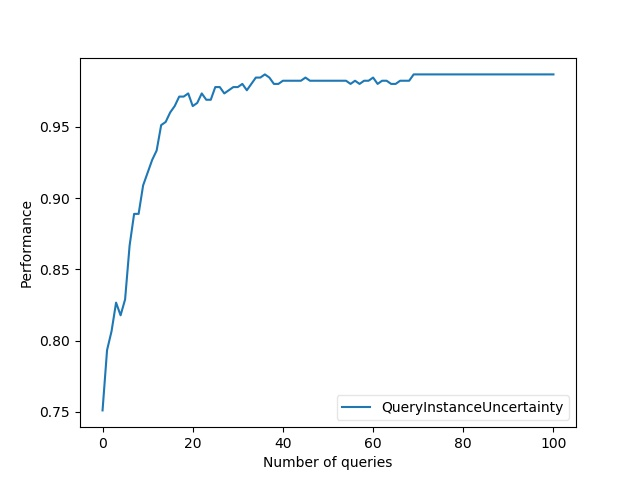
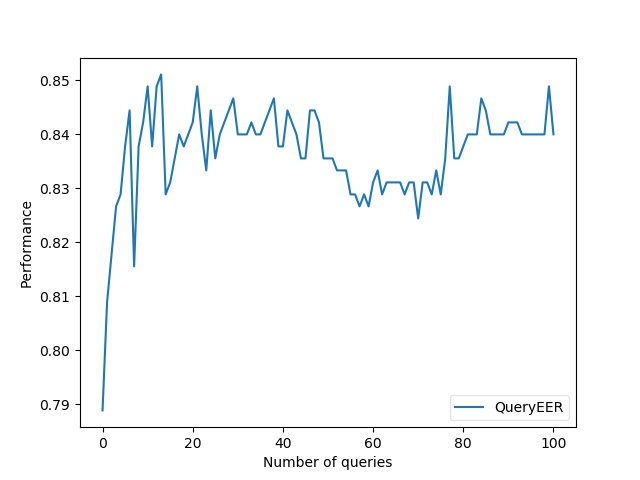
''

diff --git a/Acepy/acepy/experiment/al_experiment.py b/Acepy/acepy/experiment/al_experiment.py
@@ -13,6 +13,7 @@ import os
 import pickle
 import inspect
 import copy
+
 from sklearn.linear_model import LogisticRegression
 from sklearn.utils import check_array, check_X_y
 
@@ -132,39 +133,43 @@ class AlExperiment:
         # user-defined strategy
         if callable(strategy):
             self.__custom_strategy_flag = True
-            # self._query_function_name = str(strategy)
+            strategyname = kwargs.pop('strategyname', None)
+            if strategyname is not None:
+                self._query_function_name = strategyname
+            else:
+                self._query_function_name = 'user-defined strategy'
             self.__custom_func_arg = kwargs
             self._query_function = strategy(self._X, self._y, kwargs)
-            return
-        
-        # a pre-defined strategy in Acepy
-        if strategy not in ['QueryInstanceQBC', 'QueryInstanceUncertainty', 'QueryRandom', 
-                        'QureyExpectedErrorReduction', 'QueryInstanceGraphDensity', 'QueryInstanceQUIRE']:
-            raise NotImplementedError('Strategy %s is not implemented. Specify a valid '
-                                      'method name or privide a callable object.', str(strategy))
+            # self._query_function = strategy(self._X, self._y)
         else:
-            self._query_function_name = strategy
-            if strategy == 'QueryInstanceQBC':
-                method = kwargs.pop('method', None)
-                disagreement = kwargs.pop('disagreement', None)
-                self._query_function = acepy.query_strategy.query_strategy.QueryInstanceQBC(self._X, self._y, method, disagreement, scenario)
-            elif strategy == 'QueryInstanceUncertainty':
-                measure = kwargs.pop('measure', None)
-                self._query_function = acepy.query_strategy.query_strategy.QueryInstanceUncertainty(self._X, self._y, measure)
-            elif strategy == 'QueryRandom':
-                self._query_function = acepy.query_strategy.query_strategy.QueryRandom(self._X, self._y, kwargs)
-            elif strategy == 'QureyExpectedErrorReduction':
-                self._query_function = acepy.query_strategy.query_strategy.QureyExpectedErrorReduction(self._X, self._y)
-            elif strategy == 'QueryInstanceGraphDensity':
-                if self._train_idx is None:
-                    raise ValueError('train_idx is None.Please split data firstly.You can call set_data_split or split_AL to split data.')
-                metric = kwargs.pop('metric', None)
-                self._query_function = acepy.query_strategy.sota_strategy.QueryInstanceGraphDensity(self._X, self._y, self._train_idx, metric)
-            elif strategy == 'QueryInstanceQUIRE':
-                if self._train_idx is None:
-                    raise ValueError('train_idx is None.Please split data firstly.You can call set_data_split or split_AL to split data.')
-                self._query_function = acepy.query_strategy.sota_strategy.QueryInstanceQUIRE(self._X, self._y, self._train_idx, kwargs)
-
+            # a pre-defined strategy in Acepy
+            if strategy not in ['QueryInstanceQBC', 'QueryInstanceUncertainty', 'QueryRandom', 
+                            'QureyExpectedErrorReduction', 'QueryInstanceGraphDensity', 'QueryInstanceQUIRE']:
+                raise NotImplementedError('Strategy %s is not implemented. Specify a valid '
+                                      'method name or privide a callable object.', str(strategy))
+            else:
+                self._query_function_name = strategy
+                if strategy == 'QueryInstanceQBC':
+                    method = kwargs.pop('method', None)
+                    disagreement = kwargs.pop('disagreement', None)
+                    self._query_function = acepy.query_strategy.query_strategy.QueryInstanceQBC(self._X, self._y, method, disagreement, scenario)
+                elif strategy == 'QueryInstanceUncertainty':
+                    measure = kwargs.pop('measure', None)
+                    self._query_function = acepy.query_strategy.query_strategy.QueryInstanceUncertainty(self._X, self._y, measure)
+                elif strategy == 'QueryRandom':
+                    self._query_function = acepy.query_strategy.query_strategy.QueryRandom(self._X, self._y, kwargs)
+                elif strategy == 'QureyExpectedErrorReduction':
+                    self._query_function = acepy.query_strategy.query_strategy.QureyExpectedErrorReduction(self._X, self._y)
+                elif strategy == 'QueryInstanceGraphDensity':
+                    if self._train_idx is None:
+                        raise ValueError('train_idx is None.Please split data firstly.You can call set_data_split or split_AL to split data.')
+                    metric = kwargs.pop('metric', None)
+                    self._query_function = acepy.query_strategy.sota_strategy.QueryInstanceGraphDensity(self._X, self._y, self._train_idx, metric)
+                elif strategy == 'QueryInstanceQUIRE':
+                    if self._train_idx is None:
+                        raise ValueError('train_idx is None.Please split data firstly.You can call set_data_split or split_AL to split data.')
+                    self._query_function = acepy.query_strategy.sota_strategy.QueryInstanceQUIRE(self._X, self._y, self._train_idx, kwargs)
+     
     def set_performance_metric(self, performance_metric='accuracy_score'):
         """
             Set the metric for experiment.
@@ -255,28 +260,30 @@ class AlExperiment:
 
     def start_query(self, multi_thread=True):
         """Start the active learning main loop
-        If using implemented query strategy, It will run in multi-thread default"""
+        If using implemented query strategy, It will run in multi-thread default
+
+        """
         if not self._split:
             raise Exception("Data split is unknown. Use set_data_split() to set an existed split, "
-                            "or use split_AL() to generate new split.")
-        if self.__custom_strategy_flag:
-            pass
-        
+                            "or use split_AL() to generate new split.")                           
         if multi_thread:
-            ace = aceThreading()
-            ace.set_target_function()
+            ace = aceThreading(self._X, self._y, self._train_idx, self._test_idx, self._label_idx, self._unlabel_idx)
+            ace.set_target_function(self.__al_main_loop)
             ace.start_all_threads()
-            return ace.get_results()
+            self._experiment_result = ace.get_results()
         else:
             for round in range(self._split_count):
                 saver = StateIO(round, self._train_idx[round], self._test_idx[round], self._label_idx[round], self._unlabel_idx[round])
-                self.__al_main_loop(round, self._train_idx[round], self._test_idx[round], IndexCollection(self._label_idx[round]), IndexCollection(self._unlabel_idx[round]), saver)
+                self.__al_main_loop(round, self._train_idx[round], self._test_idx[round], self._label_idx[round], self._unlabel_idx[round], saver)
+                self._experiment_result.append(copy.deepcopy(saver))
                 
     def __al_main_loop(self, round, train_id, test_id, Lcollection, Ucollection,
                        saver, examples=None, labels=None, global_parameters=None):
         """
             The active-learning main loop.
         """
+        Lcollection = IndexCollection(Lcollection)
+        Ucollection = IndexCollection(Ucollection)
         self._model.fit(X=self._X[Lcollection.index, :], y=self._y[Lcollection.index])
         pred = self._model.predict(self._X[test_id, :])
 
@@ -309,13 +316,11 @@ class AlExperiment:
             saver.save()
             # update stopping_criteria
             self._stopping_criterion.update_information(saver)
-
         self._stopping_criterion.reset()
-        self._experiment_result.append(copy.deepcopy(saver))
 
     def get_experiment_result(self, title=None):
         """
-
+            Print the experiment result,and draw a line chart.
         """
         if len(self._experiment_result) == 0:
             raise Exception('There is no experiment result.Use start_query() get experiment result firstly.')
@@ -323,3 +328,9 @@ class AlExperiment:
         ea.add_method(self._query_function_name, self._experiment_result)
         print(ea)
         ea.plot_line_chart(title=title)
+
+    def save(self):
+        pass
+
+    def recover(self):
+        pass

diff --git a/Acepy/test_alexperiment.py b/Acepy/test_alexperiment.py
@@ -1,7 +1,7 @@
 from sklearn.datasets import load_iris, make_classification
 from acepy.experiment.state import State
 from acepy.utils.toolbox import ToolBox
-from acepy.query_strategy.query_strategy import QueryInstanceUncertainty
+from acepy.query_strategy.query_strategy import QueryInstanceUncertainty,QureyExpectedErrorReduction
 
 from acepy.experiment.al_experiment import AlExperiment
 
@@ -12,7 +12,14 @@ X, y = make_classification(n_samples=150, n_features=20, n_informative=2, n_redu
 
 al = AlExperiment(X, y)
 al.split_AL()
-al.set_query_strategy(strategy="QueryInstanceUncertainty", measure='entropy')
+user_query = QureyExpectedErrorReduction
+print(callable(user_query))
+if callable(user_query):
+    print("callable")
+    al.set_query_strategy(user_query, strategyname='QueryEER')
+else:
+    al.set_query_strategy(strategy="QueryInstanceUncertainty", measure='entropy')
 
-al.start_query(multi_thread=False)
+# al.start_query(multi_thread=False)
+al.start_query()
 al.get_experiment_result()

diff --git a/Acepy/acepy/metrics/performance.py b/Acepy/acepy/metrics/performance.py
@@ -7,12 +7,11 @@ Implement classical methods
 # License: BSD 3 clause
 
 from __future__ import division
+
 import numpy as np
 from scipy.sparse import csr_matrix
 from scipy.stats import rankdata
 
-from acepy.utils.misc import check_one_to_one_correspondence
- 
  
 __all__ = [
     'accuracy_score',
